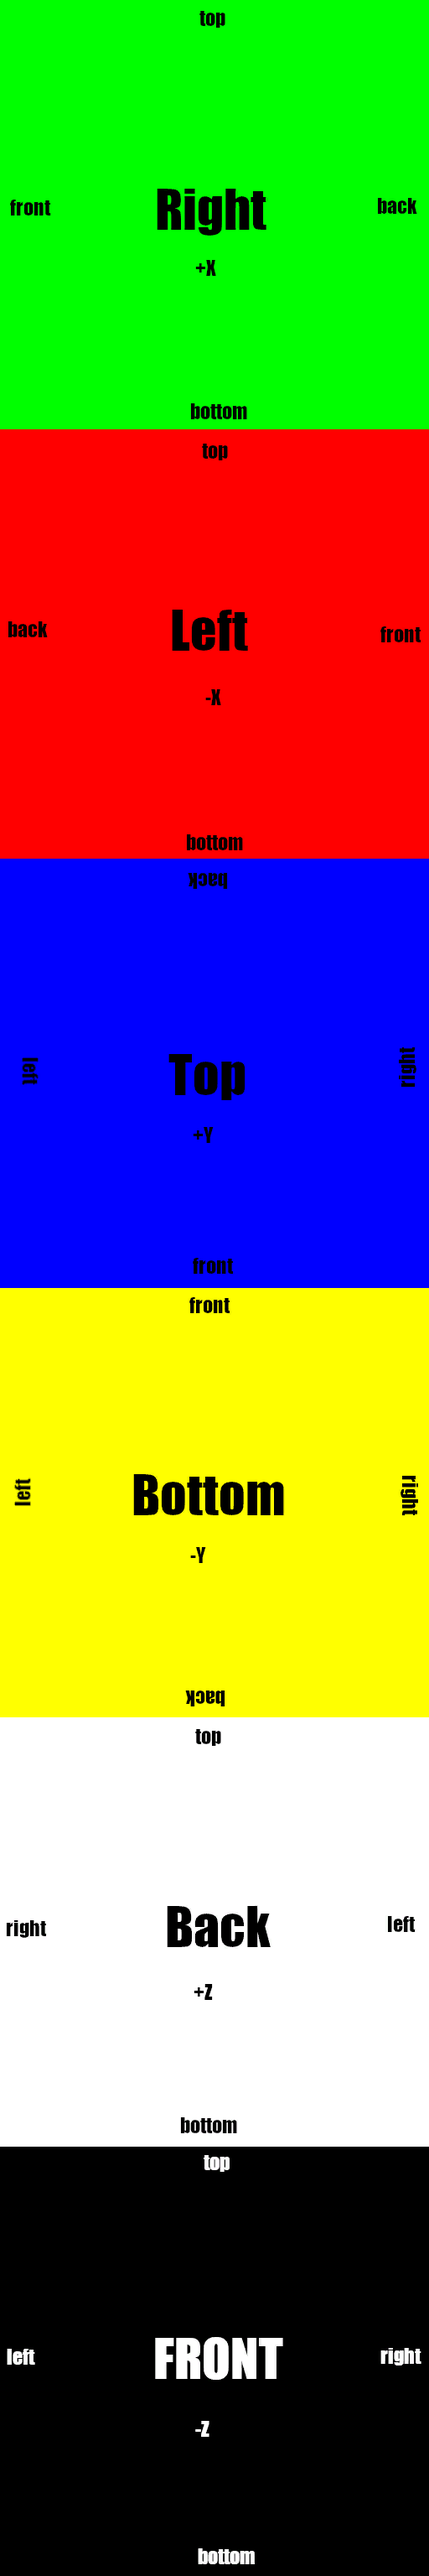
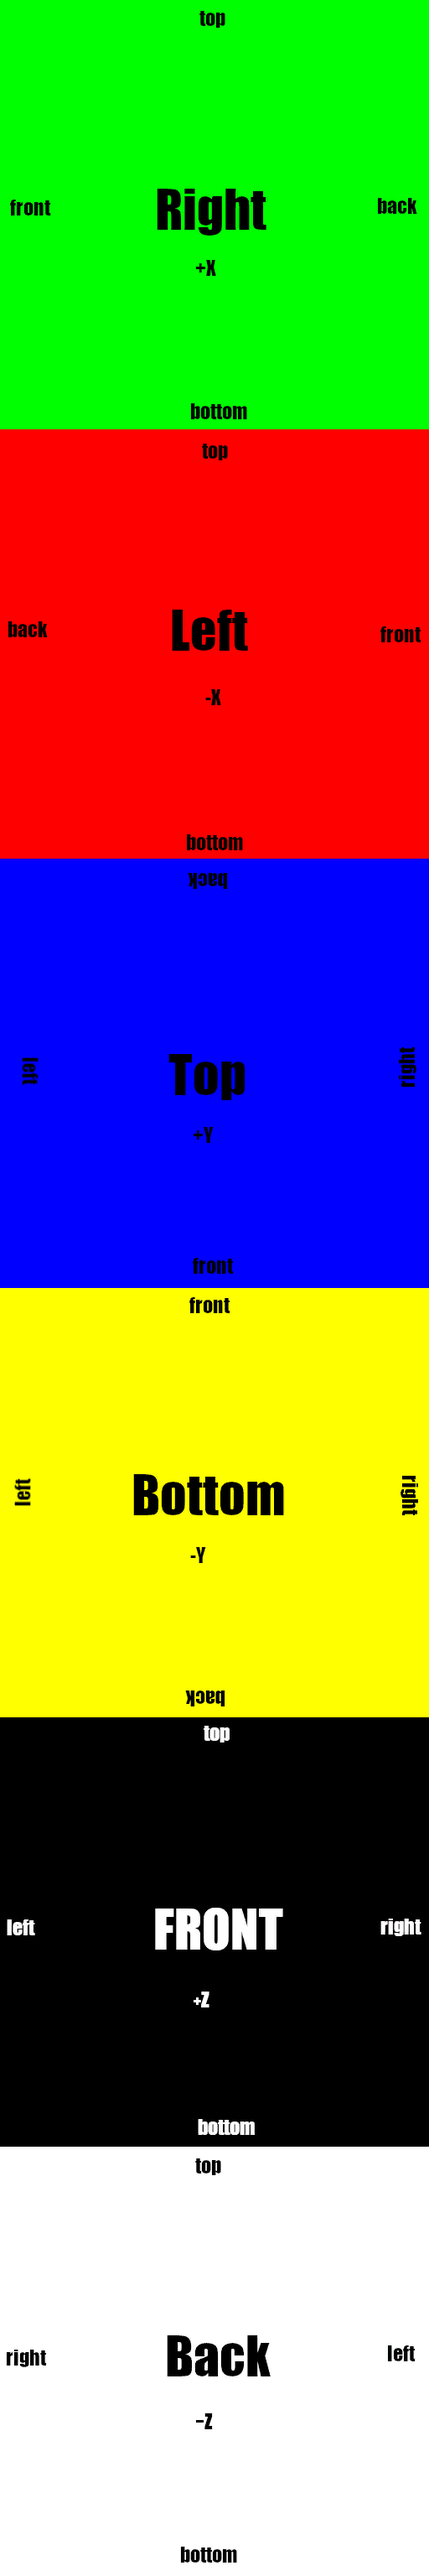
Pack skybox faces into one

diff --git a/src/resources/cubemap_texture.cpp b/src/resources/cubemap_texture.cpp
@@ -20,69 +20,46 @@ namespace Flint {
         // TODO: Add mip levels.
         uint32_t mipLevels = 1;
 
-        std::vector<std::string> paths = {
-                "../assets/skybox/000.png",
-                "../assets/skybox/001.png",
-                "../assets/skybox/002.png",
-                "../assets/skybox/003.png",
-                "../assets/skybox/004.png",
-                "../assets/skybox/005.png",
-        };
+        std::string filename = "../assets/skybox.png";
+        int tex_width, tex_height, tex_channels;
+        stbi_uc *pixels = stbi_load(filename.c_str(),
+                                    &tex_width,
+                                    &tex_height,
+                                    &tex_channels,
+                                    STBI_rgb_alpha);
 
-        VkDeviceSize image_size = 0;
+        if (!pixels) {
+            Flint::Logger::warn("Failed to load image file: " + filename, "Texture");
+            throw std::runtime_error("Failed to load texture image!");
+        }
+
+        width = tex_width;
+        height = tex_height / 6;
+
+        format = VK_FORMAT_R8G8B8A8_UNORM;
+
+        // Image layer data size per layer in bytes.
+        VkDeviceSize layer_data_size = width * height * 4;
 
         // Temporary buffer and CPU memory.
         VkBuffer staging_buffer;
         VkDeviceMemory staging_buffer_memory;
 
-        for (uint32_t face = 0; face < 6; face++) {
-            auto path = paths[face];
+        RenderServer::getSingleton()->createBuffer(layer_data_size * 6,
+                                                   VK_BUFFER_USAGE_TRANSFER_SRC_BIT,
+                                                   VK_MEMORY_PROPERTY_HOST_VISIBLE_BIT |
+                                                   VK_MEMORY_PROPERTY_HOST_COHERENT_BIT,
+                                                   staging_buffer,
+                                                   staging_buffer_memory);
 
-            int tex_width, tex_height, tex_channels;
-            stbi_uc *pixels = stbi_load(path.c_str(), &tex_width, &tex_height, &tex_channels, STBI_rgb_alpha);
+        // Copy the pixel values that we got from the image loading library to the buffer.
+        RenderServer::getSingleton()->copyDataToMemory(pixels,
+                                                       staging_buffer_memory,
+                                                       layer_data_size * 6,
+                                                       0);
 
-            if (!pixels) {
-                Flint::Logger::warn("Failed to load image file " + path, "Texture");
-                //return Texture::from_empty(4, 4);
-                throw std::runtime_error("Failed to load texture image!");
-            }
-
-            width = tex_width;
-            height = tex_height;
-
-            VkFormat tex_format = VK_FORMAT_R8G8B8A8_UNORM;
-
-            // Data size per pixel.
-            int pixel_bytes;
-            if (tex_format == VK_FORMAT_R8G8B8A8_UNORM) {
-                pixel_bytes = 4;
-            } else if (tex_format == VK_FORMAT_R32G32B32A32_SFLOAT) {
-                pixel_bytes = 16;
-            } else {
-                abort();
-            }
-
-            // Image data size in bytes.
-            image_size = width * height * pixel_bytes;
-
-            if (face == 0) {
-                RenderServer::getSingleton()->createBuffer(image_size * 6,
-                                                           VK_BUFFER_USAGE_TRANSFER_SRC_BIT,
-                                                           VK_MEMORY_PROPERTY_HOST_VISIBLE_BIT |
-                                                           VK_MEMORY_PROPERTY_HOST_COHERENT_BIT,
-                                                           staging_buffer,
-                                                           staging_buffer_memory);
-            }
-
-            // Copy the pixel values that we got from the image loading library to the buffer.
-            RenderServer::getSingleton()->copyDataToMemory(pixels,
-                                                           staging_buffer_memory,
-                                                           image_size,
-                                                           face * image_size);
-
-            // Clean up the original pixel array.
-            stbi_image_free(pixels);
-        }
+        // Clean up the original pixel array.
+        stbi_image_free(pixels);
 
         // Create optimal tiled target image.
         RenderServer::getSingleton()->createImage(width,
@@ -99,10 +76,12 @@ namespace Flint {
         // Setup buffer copy regions for each face including all of its mip levels.
         std::vector<VkBufferImageCopy> buffer_copy_regions;
 
+        // Order has to be (+X, -X, +Y, -Y, +Z, -Z).
         for (uint32_t face = 0; face < 6; face++) {
+            // Mip level has to be 1 for now.
             for (uint32_t level = 0; level < mipLevels; level++) {
                 // Calculate offset into staging buffer for the current mip level and face
-                size_t offset = face * image_size;
+                size_t offset = face * layer_data_size;
 
                 VkBufferImageCopy buffer_copy_region = {};
                 buffer_copy_region.imageSubresource.aspectMask = VK_IMAGE_ASPECT_COLOR_BIT;

diff --git a/examples/2d_skeleton_editor/main.cpp b/examples/2d_skeleton_editor/main.cpp
@@ -151,6 +151,7 @@ int main() {
 
         sub_viewport_c->add_child(sub_viewport);
         sub_viewport_c->set_viewport(sub_viewport);
+        sub_viewport_c->set_size({512, 512});
         sub_viewport->add_child(std::make_shared<Skybox>());
         sub_viewport->add_child(node_3d);
         node_3d->add_child(model1);

diff --git a/src/scene/node/gui/control.h b/src/scene/node/gui/control.h
@@ -6,7 +6,7 @@
 #include "../node.h"
 #include "../../../common/geometry.h"
 #include "../../../resources/mesh.h"
-#include "../../../render/mvp_buffer.h"
+#include "../../../render/mvp.h"
 #include "../../../render/render_server.h"
 #include "../../../servers/input_server.h"
 #include "../../../servers/vector_server.h"

diff --git a/src/scene/ecs/components/components.h b/src/scene/ecs/components/components.h
@@ -5,7 +5,7 @@
 #include "../../../resources/surface.h"
 #include "../../../resources/material.h"
 #include "../../../resources/default_resource.h"
-#include "../../../render/mvp_buffer.h"
+#include "../../../render/mvp.h"
 #include "../../../render/render_target.h"
 #include "../../../servers/input_server.h"
 

diff --git a/src/scene/node/2d/skeleton_2d.cpp b/src/scene/node/2d/skeleton_2d.cpp
@@ -1,7 +1,7 @@
 #include "skeleton_2d.h"
 
 #include "../sub_viewport.h"
-#include "../../../render/mvp_buffer.h"
+#include "../../../render/mvp.h"
 #include "../../../render/swap_chain.h"
 #include "../../../render/render_server.h"
 #include "../../../resources/resource_manager.h"

diff --git a/src/scene/ecs/systems/sprite_render_system.cpp b/src/scene/ecs/systems/sprite_render_system.cpp
@@ -3,7 +3,7 @@
 #include "../components/components.h"
 #include "../../../render/swap_chain.h"
 #include "../../../resources/surface.h"
-#include "../../../render/mvp_buffer.h"
+#include "../../../render/mvp.h"
 
 #include "glm/glm.hpp"
 #include "glm/gtc/matrix_transform.hpp"

diff --git a/src/scene/ecs/systems/model_render_system.cpp b/src/scene/ecs/systems/model_render_system.cpp
@@ -5,7 +5,7 @@
 #include "../../../render/swap_chain.h"
 #include "../../../core/engine.h"
 #include "../../../resources/surface.h"
-#include "../../../render/mvp_buffer.h"
+#include "../../../render/mvp.h"
 
 #include "glm/glm.hpp"
 #include "glm/gtc/matrix_transform.hpp"

diff --git a/src/scene/node/3d/node_3d.h b/src/scene/node/3d/node_3d.h
@@ -4,7 +4,7 @@
 #include "../node.h"
 #include "../../../render/render_server.h"
 #include "../../../resources/surface.h"
-#include "../../../render/mvp_buffer.h"
+#include "../../../render/mvp.h"
 
 #include "glm/glm.hpp"
 //#include <Eigen/Geometry>

diff --git a/src/render/mvp.h b/src/render/mvp.h
@@ -1,5 +1,5 @@
-#ifndef FLINT_MVP_BUFFER_H
-#define FLINT_MVP_BUFFER_H
+#ifndef FLINT_MVP_H
+#define FLINT_MVP_H
 
 #define GLFW_INCLUDE_VULKAN
 
@@ -55,4 +55,4 @@ namespace Flint {
     };
 }
 
-#endif //FLINT_MVP_BUFFER_H
+#endif //FLINT_MVP_H

diff --git a/src/scene/node/2d/skeleton_2d.h b/src/scene/node/2d/skeleton_2d.h
@@ -4,7 +4,7 @@
 #include "node_2d.h"
 #include "sprite_2d.h"
 #include "../../../resources/mesh.h"
-#include "../../../render/mvp_buffer.h"
+#include "../../../render/mvp.h"
 #include "../../../servers/vector_server.h"
 
 namespace Flint {

diff --git a/src/scene/node/2d/node_2d.h b/src/scene/node/2d/node_2d.h
@@ -3,7 +3,7 @@
 
 #include "../node.h"
 #include "../../../common/geometry.h"
-#include "../../../render/mvp_buffer.h"
+#include "../../../render/mvp.h"
 #include "../../../resources/mesh.h"
 #include "../../../servers/vector_server.h"
 

diff --git a/src/scene/node/2d/sprite_2d.cpp b/src/scene/node/2d/sprite_2d.cpp
@@ -1,7 +1,7 @@
 #include "sprite_2d.h"
 
 #include "../sub_viewport.h"
-#include "../../../render/mvp_buffer.h"
+#include "../../../render/mvp.h"
 #include "../../../render/swap_chain.h"
 
 #define GLM_FORCE_DEPTH_ZERO_TO_ONE
